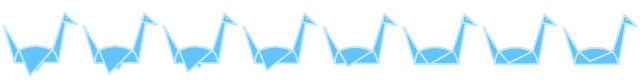
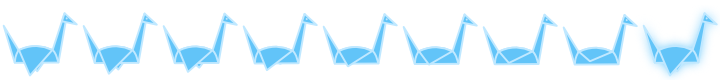
Improved bird.

Changed region(s): [[0.0, 0.15, 1.0, 0.95]]

diff --git a/data/script/level.js b/data/script/level.js
@@ -28,7 +28,8 @@ game.level = function(levelId){
 	objectsLayer.mouseEnabled = false;
 	var mouseLayer = new createjs.Container();
 	var fadeInLayer = new createjs.Container();
-	stage.addChild(backgroundLayer, objectsLayer, mouseLayer, fadeInLayer);
+	var hintLayer = new createjs.Container();
+	stage.addChild(backgroundLayer, objectsLayer, mouseLayer, hintLayer, fadeInLayer);
 
 	// buttons
 	var createButton = function(text, x, y, cb){
@@ -82,7 +83,7 @@ game.level = function(levelId){
 	hint.x = 400;
 	hint.y = 420;
 	hint.textAlign = 'center';
-	stage.addChild(hint);
+	hintLayer.addChild(hint);
 
 	// basic objects
 	var badStarSprite = new createjs.SpriteSheet({
@@ -192,6 +193,7 @@ game.level = function(levelId){
 		frames: { width: 80, height: 80 },
 		animations: {
 			stay: 0,
+			glow: 8,
 			fly: {
 				frames: [0,1,2,3,4,5,6,7,6,5,4,3,2,1],
 				speed: 0.4,
@@ -227,7 +229,7 @@ game.level = function(levelId){
 	var girl = createGirl(design.start.x, design.start.y);
 	var birdEnd = createBird(design.end.x, design.end.y, design.end.isMonster);
 	if(!design.end.isMonster) {
-		birdEnd.alpha = 0.8;
+		birdEnd.alpha = 0.7;
 	} else {
 		birdEnd.scaleX = 1.1;
 		birdEnd.scaleY = 1.1;
@@ -465,11 +467,14 @@ game.level = function(levelId){
 
 	// mouse events
 	var birdPreview = createBird(-1000, -1000);
+	birdPreview.ani.gotoAndStop('glow');
 	birdPreview.alpha = 0.5;
 	mouseLayer.addChild(birdPreview);
 	var slowingStar = -1;
 	stage.on('stagemousemove', function(e){
-		if(!design.end.isMonster) birdEnd.alpha = 0.8;
+		if(!design.end.isMonster) {
+			birdEnd.alpha = 0.7;
+		}
 		// on star
 		var p = starPlaced(e.stageX, e.stageY);
 		if(p >= 0) {
@@ -487,7 +492,9 @@ game.level = function(levelId){
 		p = birdPlaced(e.stageX, e.stageY);
 		if(p === 0) {
 			birdPreview.visible = false;
-			if(!design.end.isMonster) birdEnd.alpha = 1;
+			if(!design.end.isMonster) {
+				birdEnd.alpha = 1;
+			}
 		} else if(p === -1) {
 			birdPreview.visible = true;
 			birdPreview.x = e.stageX;
